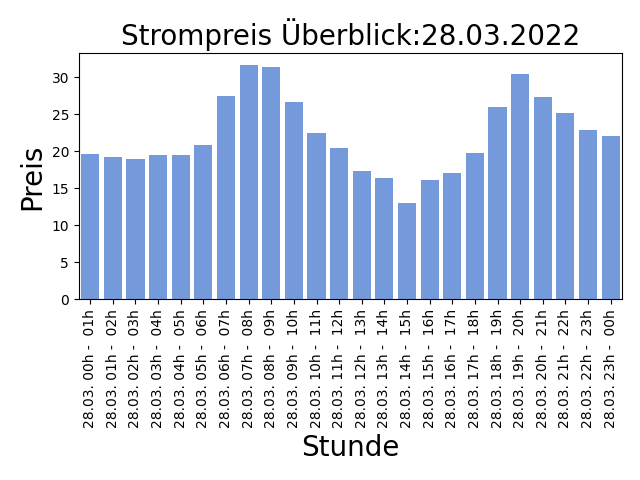
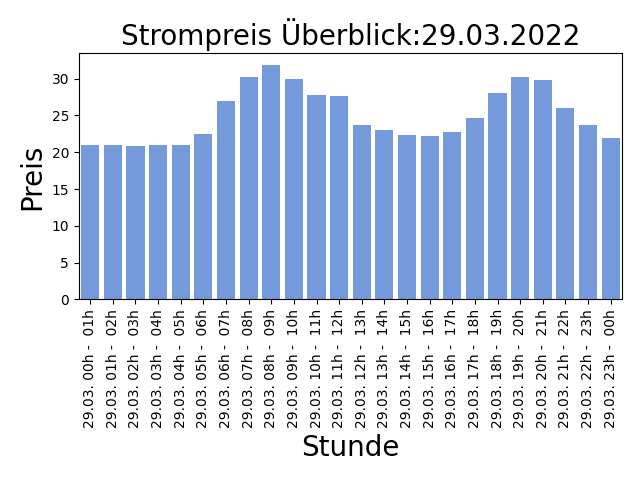
AUTOMATIC UPDATE PRICE LIST: 2022-03-28-14:30:07

diff --git a/README.md b/README.md
@@ -1,5 +1,5 @@
 
-## Strompreise für den 28.03.2022
+## Strompreise für den 29.03.2022
 
 Niedrige Preise deuten auf viel Sonnen und Windenergieerzeugung hin, ein hoher Anteil an erneuerbaren Energien bedeuted weniger CO2 Verbrauch!
 
@@ -7,31 +7,31 @@ Niedrige Preise deuten auf viel Sonnen und Windenergieerzeugung hin, ein hoher A
 
 | Stunde | Preis in Cent/kWh |
 |---|---|
-| 28.03. 00h -  01h | 19.6 | 
-| 28.03. 01h -  02h | 19.204 | 
-| 28.03. 02h -  03h | 18.945 | 
-| 28.03. 03h -  04h | 19.488999999999997 | 
-| 28.03. 04h -  05h | 19.500999999999998 | 
-| 28.03. 05h -  06h | 20.862000000000002 | 
-| 28.03. 06h -  07h | 27.494999999999997 | 
-| 28.03. 07h -  08h | 31.695 | 
-| 28.03. 08h -  09h | 31.395 | 
-| 28.03. 09h -  10h | 26.698 | 
-| 28.03. 10h -  11h | 22.494 | 
-| 28.03. 11h -  12h | 20.413999999999998 | 
-| 28.03. 12h -  13h | 17.387 | 
-| 28.03. 13h -  14h | 16.351 | 
-| **28.03. 14h -  15h** | **13.099** | 
-| 28.03. 15h -  16h | 16.15 | 
-| 28.03. 16h -  17h | 17.068 | 
-| 28.03. 17h -  18h | 19.756 | 
-| 28.03. 18h -  19h | 26.031 | 
-| 28.03. 19h -  20h | 30.462 | 
-| 28.03. 20h -  21h | 27.406 | 
-| 28.03. 21h -  22h | 25.261000000000003 | 
-| 28.03. 22h -  23h | 22.953 | 
-| 28.03. 23h -  00h | 22.054 | 
+| 29.03. 00h -  01h | 20.983 | 
+| 29.03. 01h -  02h | 21.018 | 
+| **29.03. 02h -  03h** | **20.896** | 
+| 29.03. 03h -  04h | 21.0 | 
+| 29.03. 04h -  05h | 20.987000000000002 | 
+| 29.03. 05h -  06h | 22.527 | 
+| 29.03. 06h -  07h | 27.026999999999997 | 
+| 29.03. 07h -  08h | 30.212 | 
+| 29.03. 08h -  09h | 31.874000000000002 | 
+| 29.03. 09h -  10h | 29.99 | 
+| 29.03. 10h -  11h | 27.848000000000003 | 
+| 29.03. 11h -  12h | 27.594 | 
+| 29.03. 12h -  13h | 23.643 | 
+| 29.03. 13h -  14h | 23.085 | 
+| 29.03. 14h -  15h | 22.352 | 
+| 29.03. 15h -  16h | 22.241 | 
+| 29.03. 16h -  17h | 22.801 | 
+| 29.03. 17h -  18h | 24.653 | 
+| 29.03. 18h -  19h | 28.004 | 
+| 29.03. 19h -  20h | 30.249000000000002 | 
+| 29.03. 20h -  21h | 29.767000000000003 | 
+| 29.03. 21h -  22h | 26.004 | 
+| 29.03. 22h -  23h | 23.7 | 
+| 29.03. 23h -  00h | 21.984 | 
 
 Preise der EPEX Spot ® Strombörse (neue Preise werden täglich um 14:00 veröffentlicht für den kompletten nächsten Tag).
 
-letzte Aktualisierung:27.03.2022 14:30
+letzte Aktualisierung:28.03.2022 14:30
